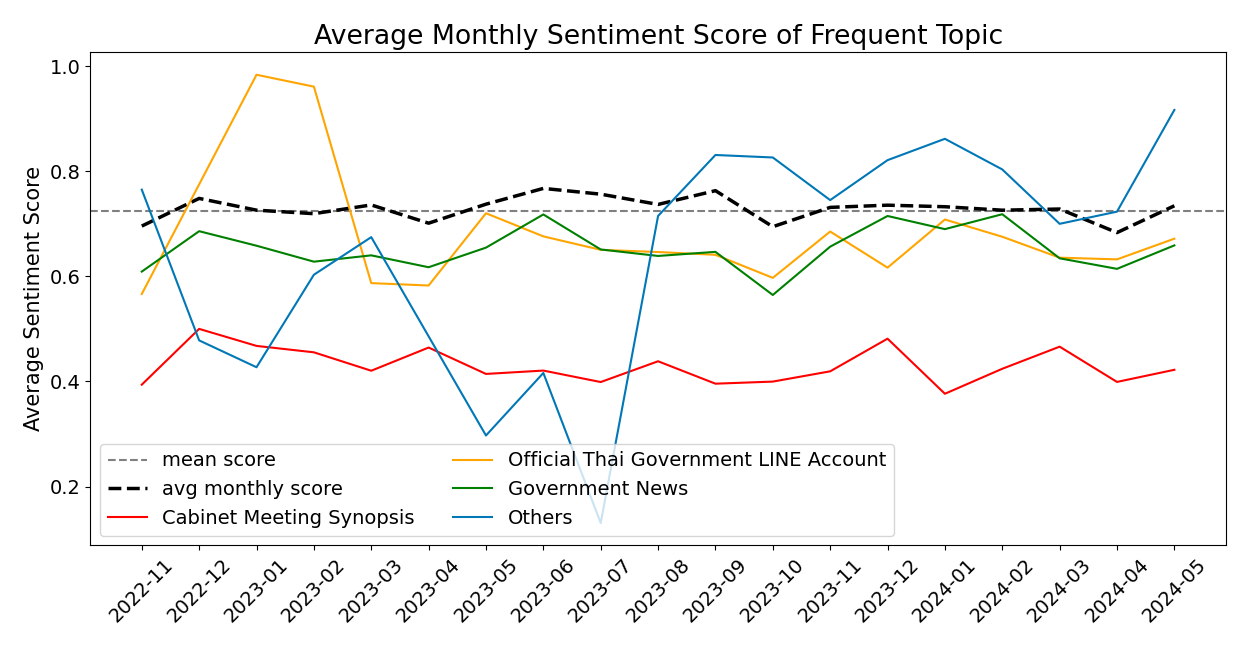
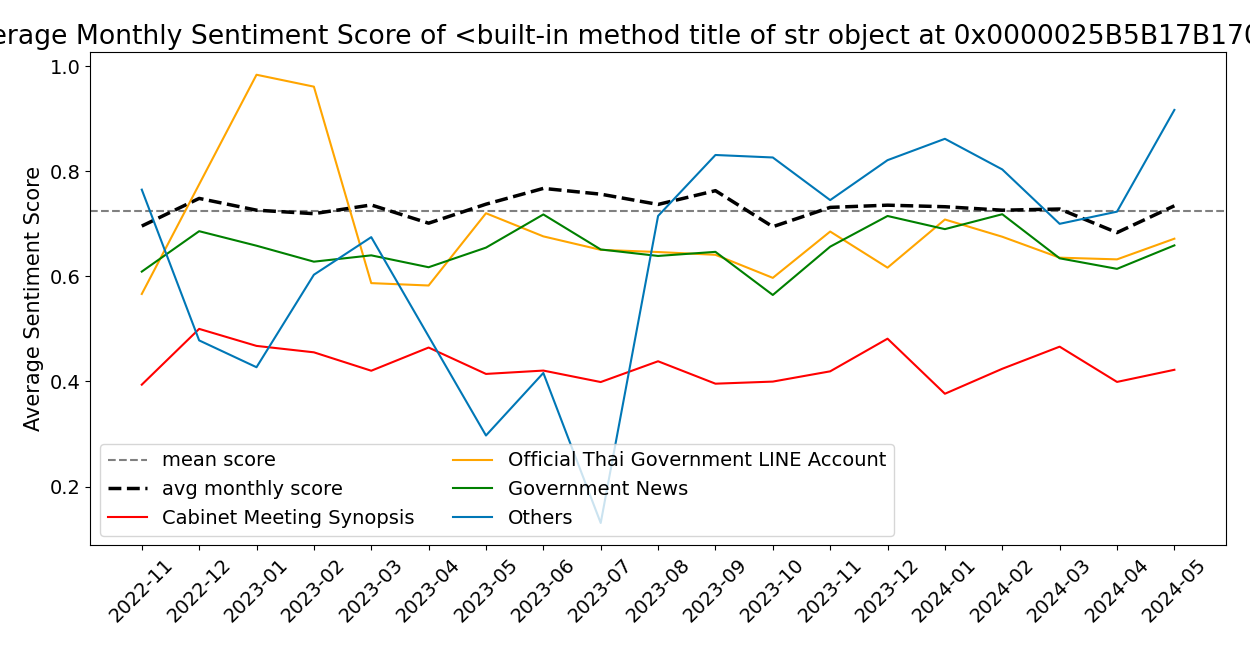
modify lineplot monthly by topic

Changed region(s): [[0.0, 0.0308, 1.0, 0.0923]]

diff --git a/core/analyze_result.py b/core/analyze_result.py
@@ -168,7 +168,7 @@ class Analysis:
         for i, topic in enumerate(df.columns):
             sns.lineplot(x=df.index, y=df[topic], color=colors[i], label=topic)
         plt.legend(fontsize=14, ncol=2, loc="lower left")
-        plt.title("Average Monthly Sentiment Score of Frequent Topic")
+        plt.title(f"Average Monthly Sentiment Score of {specific_type.title} Topic")
         plt.xlabel("")
         plt.ylabel("Average Sentiment Score", fontsize=15)
         plt.xticks(range(len(self.all_months)), self.all_months, rotation=45, fontsize=14)
